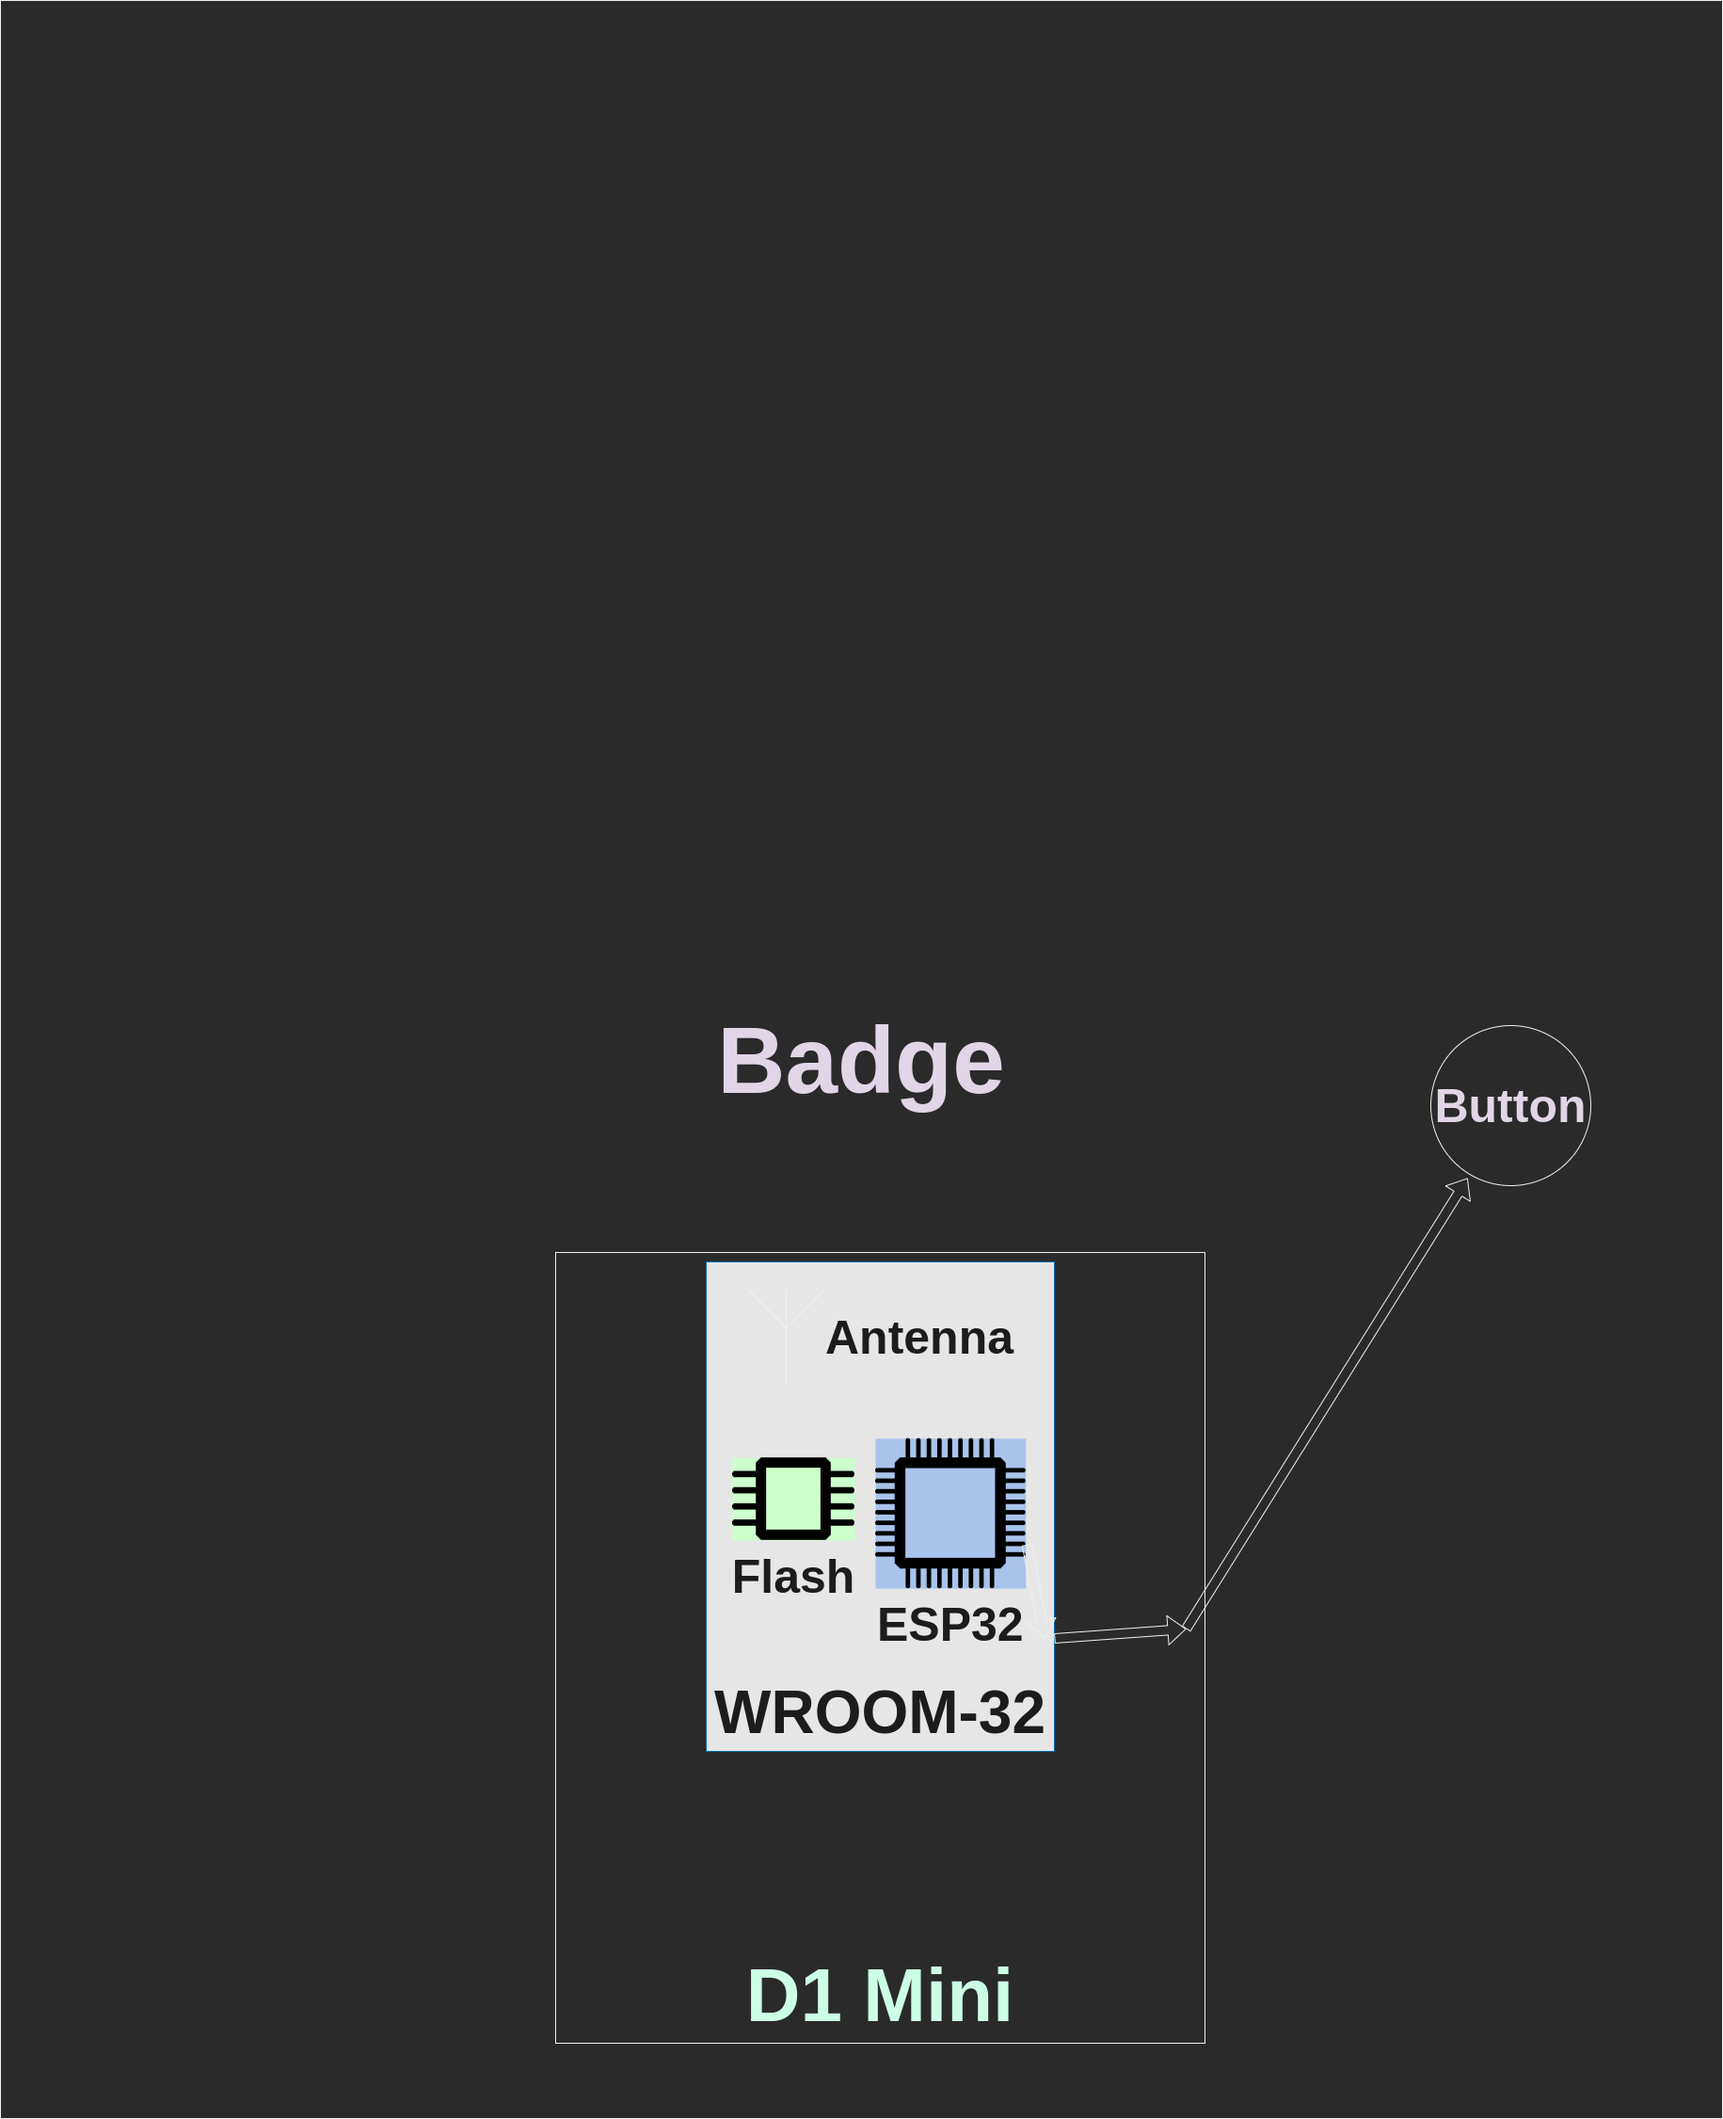
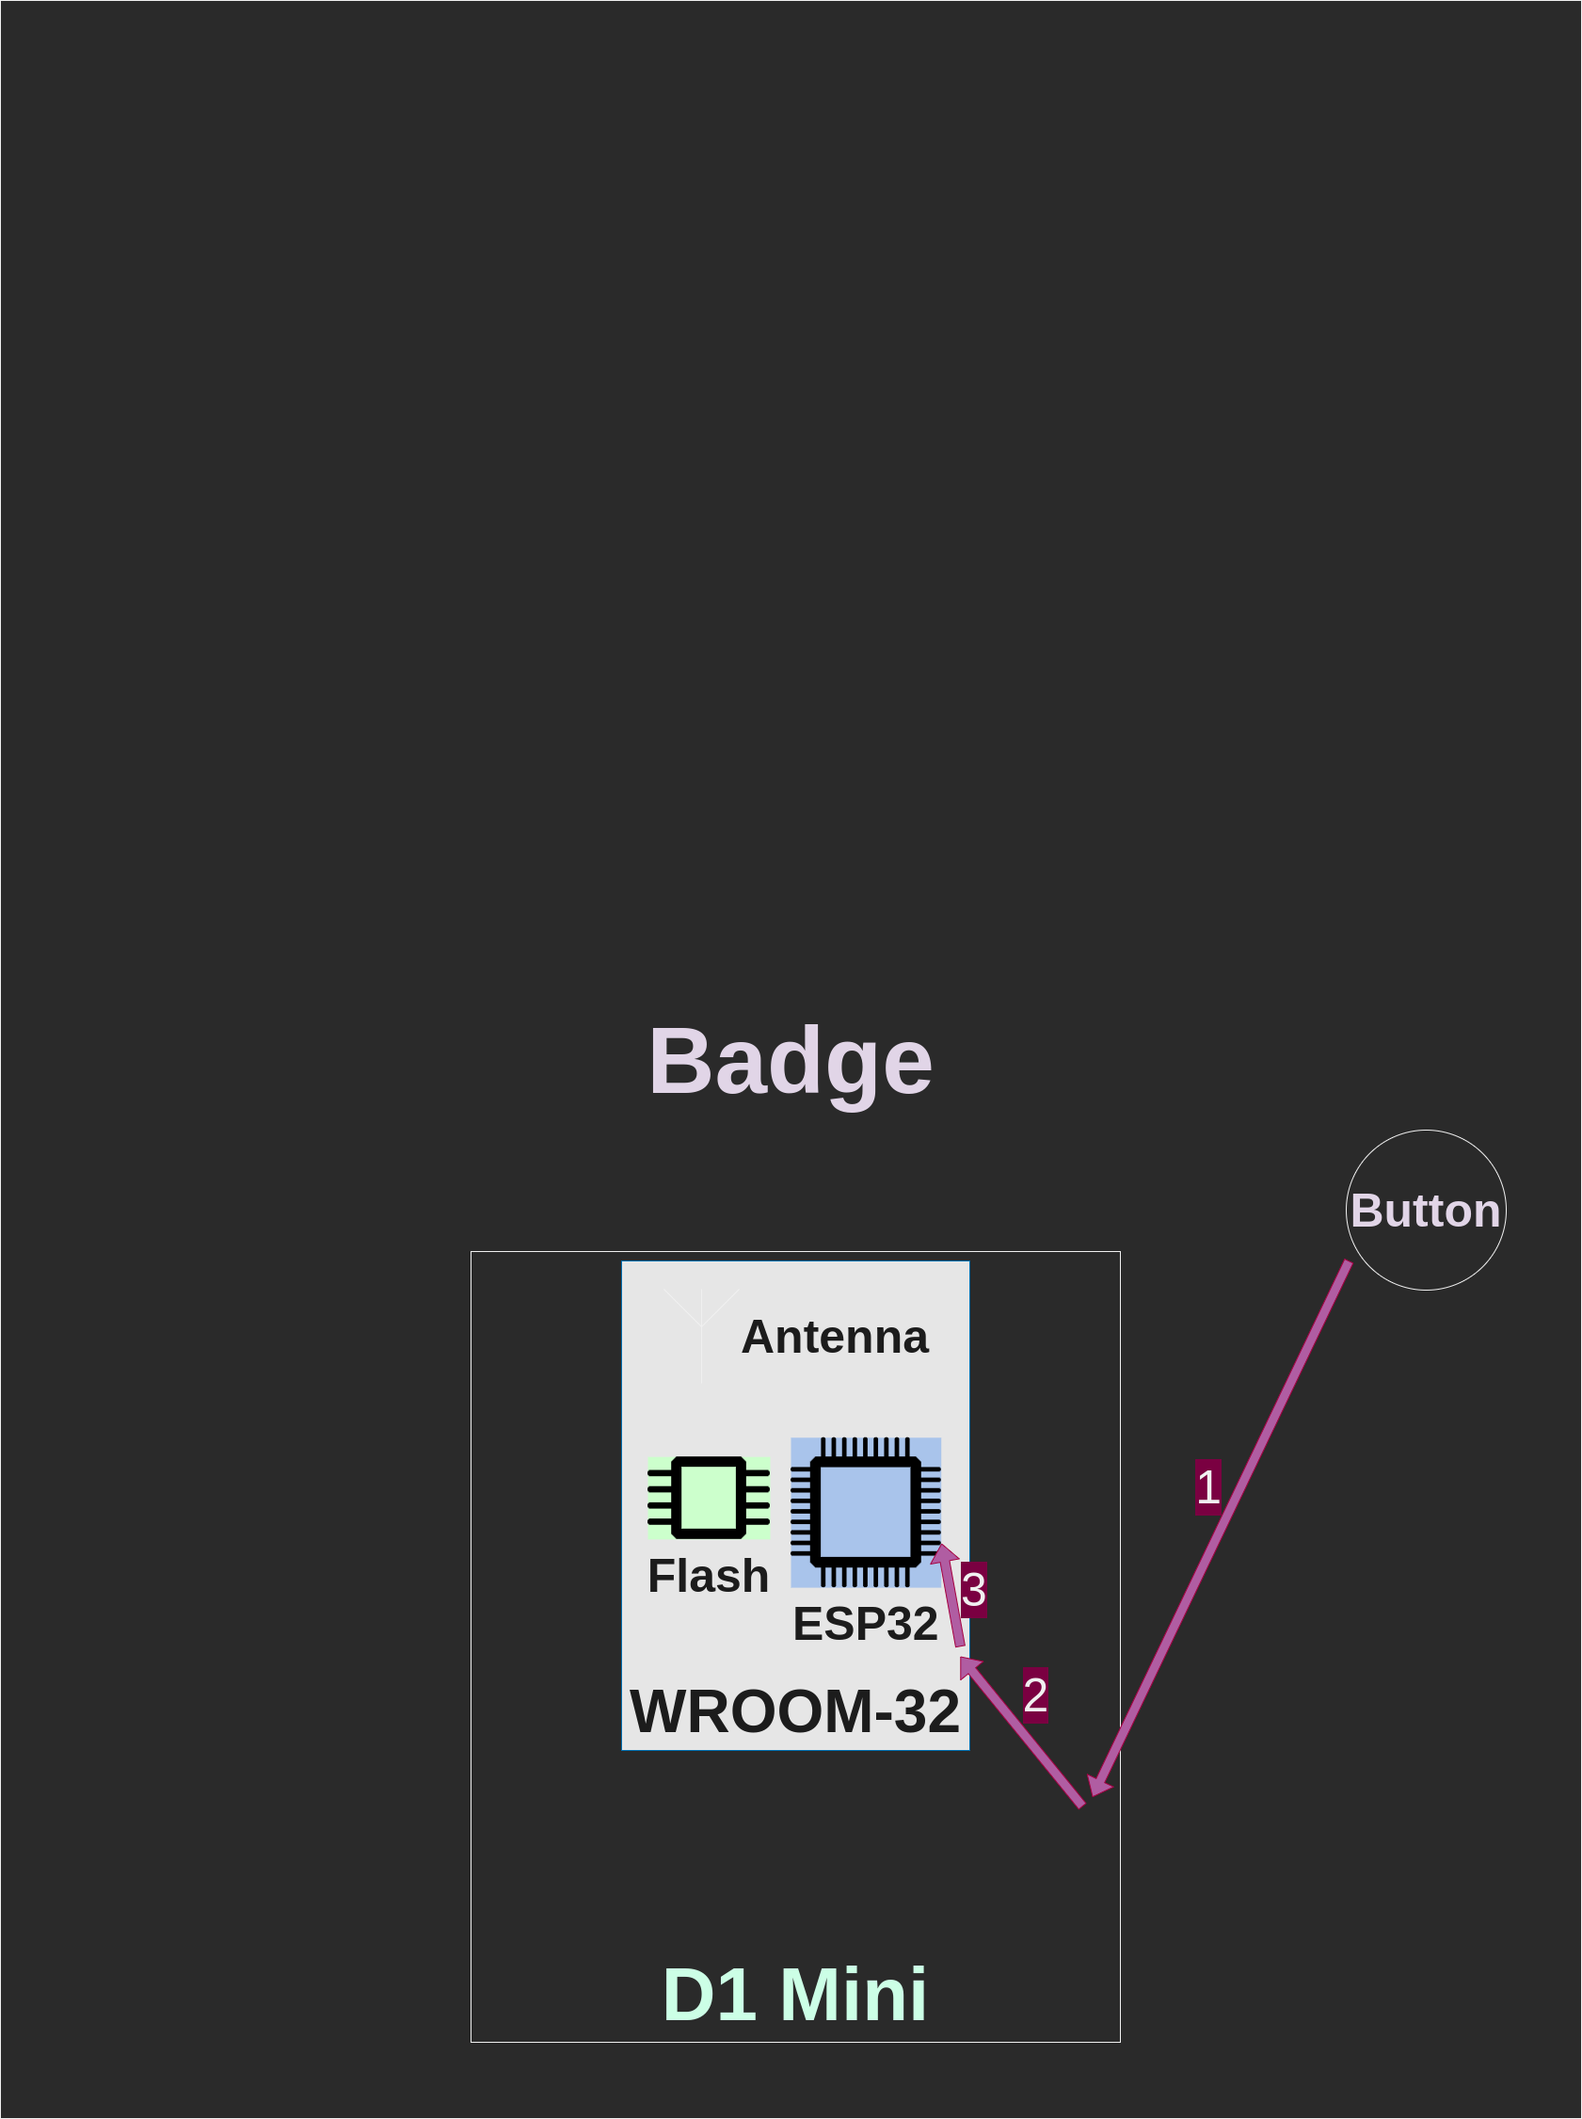
pres: finish up slides

diff --git a/pres/slides.md b/pres/slides.md
@@ -30,6 +30,36 @@ More involved than IKEA.
 
 You really have to **do** things!
 
+. . .
+
+We provide high level documentation, schematics, board design, example code, and
+references.
+
+[https://github.com/das-labor/badge-2021
+](https://github.com/das-labor/badge-2021)
+
+### Physical View
+
+:::::::::::::: {.columns}
+::: {.column width="60%"}
+![](img/badge-photo.jpg){ height=85% }
+:::
+::: {.column width="40%"}
+. . .
+
+#### Basic kit
+
+- a PCB, "the badge"
+- SMD parts presoldered
+- 1 power LED
+- 1 controllable LED
+- 2 OLED screens (I2C)
+- 2 push buttons
+- slot for a D1-Mini board
+- a D1-Mini board (ESP32-WROOM-32)
+:::
+::::::::::::::
+
 ### It looks like...
 
 . . .
@@ -65,40 +95,85 @@ https://en.wikipedia.org/wiki/Game_Boy)
 
 ### Soldering the D1 Mini
 
-,,,
+![D1-Mini](img/esp32-d1-mini.png){ width=100% }
+
+. . .
+
+We offer soldering stations, and we sell USB soldering irons.
+
+Ask for help, and other Labor folks will gladly assist. :)
+
+The D1-Mini has 2x10 pins rows on both sides.
 
 ## Where does my button go?
 
-### Physical View
-
-![](img/badge-photo.jpg){ height=85% }
-
 ### Logical View
 
+:::::::::::::: {.columns}
+::: {.column width="50%"}
 ![](img/badge-layering.png){ height=85% }
+:::
+::: {.column width="50%"}
+. . .
+
+The button on the right is routed to the pin rows.
+
+. . .
+
+The pin the button is routed to goes further to the WROOM-32.
+
+. . .
+
+Underneath, it goes further to the actual ESP32 chip.
+:::
+::::::::::::::
 
 ### Schematics
 
 How do I trace a pin?
 
+. . .
+
+Hands-on!
+
 ## Programming
 
 ### MicroPython
 
-Python, but for MCUs...
+[https://micropython.org/](https://micropython.org/)
+
+> MicroPython is a lean and efficient implementation of the Python 3 programming
+> language
+
+![MicroPython](img/micropython.jpg){ height=50% }
+
+. . .
+
+Example code and instructions are in the badge repository.
 
 ### NodeMCU
 
-Lua....
+[https://nodemcu.readthedocs.io/en/dev-esp32/](
+https://nodemcu.readthedocs.io/en/dev-esp32/)
+
+> NodeMCU is an open source Lua based firmware for the ESP32 and ESP8266
+
+![NodeMCU](img/nodemcu.png){ height=40% }
+
+. . .
+
+Flashing instructions are in the badge repository.
+
+We used it for experimenting. \emoji{technologist}
 
 ### Rust \emoji{crab}
 
 :::::::::::::: {.columns}
 ::: {.column width="16%"}
-![Rust](img/rust.png){ height=22% }
+![Rust](img/rust.png){ height=30% }
 :::
 ::: {.column width="25%"}
-![Ferris](img/ferris.png){ height=25% }
+![Ferris](img/ferris.png){ height=33% }
 :::
 ::::::::::::::
 
@@ -107,24 +182,42 @@ Espressif are actively working on Rust support themselves.
 They are involved and engaging in the Embedded Rust community, and reachable via
 the [esp-rs Matrix channel](https://matrix.to/#/#esp-rs:matrix.org).
 
+. . .
+
+We have set up a bare metal Rust app for the badge.
+
 [https://github.com/das-labor/badge-2021-rs](
 https://github.com/das-labor/badge-2021-rs)
 
+Getting started instructions are in the repo.
 
 ## Extensions
 
-### Thumbsticks
+### Thumbsticks and SPI displays
 
-...
+:::::::::::::: {.columns}
+::: {.column width="60%"}
+[![badge demo](img/badge-demo.jpg)](
+https://files.mastodon.social/media_attachments/files/106/513/499/063/454/079/original/be6f4133acf98617.mp4)
+:::
+::: {.column width="40%"}
+If you feel like making [little fun games](
+https://mastodon.social/@CyReVolt/106513500102546977), you can add thumbsticks,
+widely available as repair parts, and SPI displays, which are also common parts.
 
-### SPI displays
+Those displays offer more colors and a higher resolution.
 
-...
+. . .
 
-### Extra ports
+#### DEMO TIME
+:::
+::::::::::::::
 
-top left/right...
+### Extra ports and prototyping
 
-### Prototyping
+In the top left and right are 2x4 pin headers for extension with I2C, GPIO, 5V,
+3.3V, and GND routed to them.
 
-top area...
+In the top middle area are a host of unrouted pins, which can be used for
+prototyping. You can solder anything, attach wires to other pins on the badge,
+get fully creative. \emoji{partying-face}
